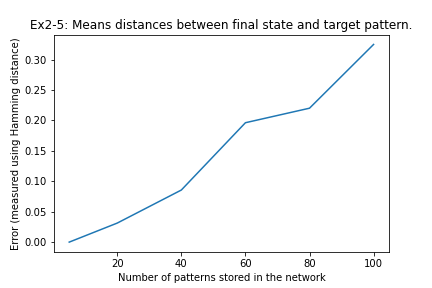
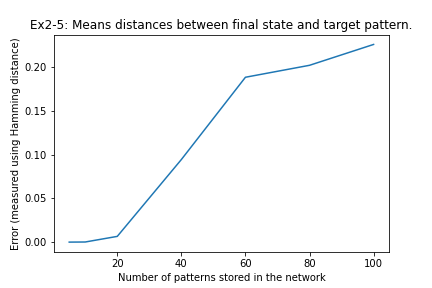
:))

diff --git a/Part2/Hop-Project-2.py b/Part2/Hop-Project-2.py
@@ -7,39 +7,16 @@ Created on Sat Apr 30 15:28:22 2022
 
 import matplotlib.pyplot as plt
 import numpy as np
-from neurodynex.hopfield_network import pattern_tools, plot_tools, network
-
-N = 300
-n_patterns = 5
-a = 0.5
-b = 0.5
-theta=0
+from neurodynex.hopfield_network import pattern_tools, network
 
 
-def generate_and_store_random_patterns(net, n_patterns):
-    """
-    Resets weights of the network passed and learn new weights for n_patterns random patterns.
-    :param net: hopfield network
-    :param n_patterns: number of patterns
-    :return: updated hopfield network, generated random patterns
-    """
-    random_patterns=random_pattern(N, a, n_patterns)
-    random_patterns=[(element + 1)/2 for element in random_patterns]
-    new_weights = weight_matrix(n_patterns, N, a, b, random_patterns)
-    net.weights=new_weights
-    return net, random_patterns
 
-def random_pattern(N, a,n_patterns):
-    """ generate random patterns """
+def random_pattern(N, a, n_patterns):
     pattern_generator = pattern_tools.PatternFactory(N, pattern_width=1)
-    return pattern_generator.create_random_pattern_list(n_patterns,a)
+    return pattern_generator.create_random_pattern_list(n_patterns, on_probability=a)
 
 
 def weight_matrix(n_patterns, N, a, b, patterns):
-    """
-    compute the weight matrix
-    w: weights
-    """
     w=np.zeros([N, N])
     cprime=1 / a / (1-a) / N
     for i in range(n_patterns):
@@ -48,122 +25,161 @@ def weight_matrix(n_patterns, N, a, b, patterns):
 
 
 def hamming_distance(x,y):
-    """
-    Hamming distance
-    """
-    return (sum(x)+sum(y)-2*np.dot(x, y)) / np.size(x)
+    return (sum(x)+sum(y)-2*np.dot(x, y)) / N
 
 
-def map_function(theta):
+def map_function(theta_0):
     def map_function_theta(sigma_t0, w):
-        """
-        changing the dynamic of the network
-        """
-        sigma_t1=np.zeros(np.size(sigma_t0))
-        for i in range(np.size(sigma_t0)):
-            sigma_t1[i]=0.5 * (1 + np.sign(np.dot(w[i], sigma_t0) - theta))      
+#        sigma_t1=np.zeros(N)
+#        for i in range(N):
+#            sigma_t1[i]=0.5 * (1 + np.sign(np.dot(w[i],sigma_t0) - np.sum(w[i])/2))
+        sigma_t1=[0.5 * (1 + np.sign(np.dot(wi,sigma_t0) - theta_0)) for wi in w]
         return sigma_t1
     return map_function_theta
 
 
-def hop_network(N,n_patterns,a,b,theta):
-    """
-    Execute exercise 1.
-    :return: hopfield network, generated random patterns
-    """
+def hop_network(N,n_patterns,a,b,theta_0):
     #Creating the random patterns of 1 & 0    
-    random_patterns=random_pattern(N, a, n_patterns)
-    random_patterns=[(element + 1)/2 for element in random_patterns]
-    
+    random_patterns = random_pattern(N, a, n_patterns)
+    random_patterns = [(element + 1)/2 for element in random_patterns]  
     #Creating the new weights from the random patterns
     new_weights = weight_matrix(n_patterns, N, a, b, random_patterns)
     net = network.HopfieldNetwork(N)
+    #Changing the weights of the network
     net.weights=new_weights
-    net.set_dynamics_to_user_function(map_function(theta))
+    net.set_dynamics_to_user_function(map_function(theta_0))
     return net, random_patterns
 
-net , random_patterns = hop_network(N,n_patterns,a,b,theta)
 
-
-def hop_run(net, stored_patterns, hamming_distance, selected_pattern_id=None):
-    """
-    Execute exercise 3.
-    :param net: Hopfield network
-    :param stored_patterns: Pattern that the network has stored in memory.
-    :param distance_function: Function used to compute the distance between two patterns.
-    :param selected_pattern_id: Pattern from which to create the initial state
-    :return: Distances between last state and all patterns, boolean flag indicating whether the pattern was correctly
-             retrieved, selected_pattern_id
-    """
-
-    # Create and set initial state
-    if selected_pattern_id is None:
-        selected_pattern_id = np.random.randint(0, len(stored_patterns))
-    else:
-        assert 0 <= selected_pattern_id < len(stored_patterns), "Selected pattern is not in the range of patterns list"
-    selected_pattern = stored_patterns[selected_pattern_id]
-    initial_state = selected_pattern  # Flip 15 randomly chosen neurons TODO\
-    initial_state = initial_state * 2 -1
-    net.set_state_from_pattern(initial_state)
-    # Run the network
-    n_steps = 6
-    net.run(nr_steps=n_steps)
-    final_state = net.state
-
-    # Calculate distance between the final state and all the patterns
-    distances = [hamming_distance(final_state, np.squeeze(pattern)) for pattern in stored_patterns]
-    correctly_retrieved = True if distances[selected_pattern_id] <= 0.05 else False
-
-    return distances, correctly_retrieved, selected_pattern_id
-
-
-net , random_patterns = hop_network(N,n_patterns,a,b,theta)
-
-def ex2_5(hamming_distance, m_vals, n_runs, N, a, b, theta):
-    """
-    Computes for each value of m the mean distance between the final state of the network and the target pattern, and
-    plot the results.
-
-    Algorithm:
-    - For 5 to 8 values M from 5 to 100:
-       - Generate list of size M with random patterns
-       - Reset weights of network
-       - Store patterns of the list
-       - For each pattern:
-           - Randomly flip 5% of that pattern, set this as initial state, run for 3 to 10 steps
-           - Compute distance between final state and target pattern, store that value
-       - Compute the mean distance between final state and target pattern, store it
-    - Plot the means
-    :param net: hopfield network
-    :param distance_function: distance function to use
-    :param m_vals: List of different values for m
-    :param n_runs: Number of runs to reach the state to compare with the target pattern
-    :return: mean distances
-    """
-    
-    def compute_mean_distance(n_patterns):
-        network, random_patterns = hop_network(N,n_patterns,a,b,theta)
-        distances = np.zeros(n_patterns)
-        n_flips = 15  # 5% of 300
-        for i, pattern in enumerate(random_patterns):
+def pattern_mean_error(hamming_distance, m_vals, n_runs, flip_rate, N, 
+                       a, b, opt_theta, theta_0 ):
+    n_flips = int(flip_rate*N)
+    no_patterns=len(m_vals)
+    means=np.zeros(no_patterns)
+    for i in range(no_patterns):
+        theta = m_vals[i]/(N*2)*opt_theta + (1-opt_theta)*theta_0
+        net, random_patterns = hop_network(N,m_vals[i],a,b,theta)
+        mean_error=0
+        for pattern in random_patterns:
             new_pattern=pattern*2-1
             initial_state = pattern_tools.flip_n(new_pattern, n_flips)
             initial_state=(initial_state + 1)/2
-            network.set_state_from_pattern(initial_state)
-            network.run(n_runs)
-            final_state = network.state
-            distances[i] = hamming_distance(final_state, np.squeeze(pattern))
-        return np.mean(distances)
+            net.set_state_from_pattern(initial_state)
+            net.run(n_runs)
+            mean_error+=(hamming_distance(net.state,pattern)/m_vals[i])
+        means[i]=mean_error
+    return means
 
-    means = np.array([compute_mean_distance(m) for m in m_vals])
-    plt.plot(m_vals, means)
+
+N = 300
+a = 0.5
+b = 0.5
+theta = 0
+n_runs = 6
+m_vals = (5, 10, 20, 40, 60, 80, 100)
+flip_rate = 0.05
+
+
+def ex2_5():
+    mean_error = 0
+    number_runs = 5
+    for i in range(number_runs):
+        mean_error+=pattern_mean_error(hamming_distance, m_vals=m_vals, n_runs=n_runs, N=N, flip_rate=flip_rate, 
+                                       a=a, b=b, opt_theta=1, theta_0=theta)/number_runs
+    print(mean_error)
+    plt.plot(m_vals, mean_error)
     plt.title("Ex2-5: Means distances between final state and target pattern.")
     plt.xlabel("Number of patterns stored in the network")
     plt.ylabel("Error (measured using Hamming distance)")
     plt.savefig("plots/ex2-5.png")
     plt.show()
+    print(np.interp(0.05, mean_error, m_vals))
 
-    return means
 
-means=ex2_5(hamming_distance, m_vals=(5, 20, 40, 60, 80, 100), n_runs=6, N=300, a=0.5, b=0.5, theta=0)
-print(means)
+def ex2_6():
+    theta_list=np.linspace(0.04, 0.08, num = 10)
+    capacity=np.zeros(len(theta_list))
+    
+    for i, theta in enumerate(theta_list):
+        mean_error=pattern_mean_error(hamming_distance, m_vals=m_vals, n_runs=n_runs, N=N, flip_rate=flip_rate, 
+                                      a=a, b=b, opt_theta=0, theta_0=theta)
+        capacity[i] = np.interp(0.05, mean_error, m_vals)
+        
+    plt.plot(theta_list, capacity)
+    plt.title("Ex2-6: Capacity of the netwrok for different values of theta.")
+    plt.xlabel("theta")
+    plt.ylabel("Maximum capacity")
+    plt.savefig("plots/ex2-6.png")
+    plt.show()
+
+
+def ex2_7():
+    a = 0.1
+    b = 0.1
+    theta_list=np.linspace(0.01, 0.5, num=20)
+    capacity=np.zeros(len(theta_list))
+    
+    for i, theta in enumerate(theta_list):
+        mean_error=pattern_mean_error(hamming_distance, m_vals=m_vals, n_runs=n_runs, N=N, flip_rate=flip_rate, 
+                                      a=a, b=b, opt_theta=0, theta_0=theta)
+        capacity[i] = np.interp(0.05, mean_error, m_vals)
+        
+    plt.plot(theta_list, capacity)
+    plt.title("Ex2-7: Capacity of the netwrok for different values of theta for a=b=0.1.")
+    plt.xlabel("theta")
+    plt.ylabel("Maximum capacity")
+    plt.savefig("plots/ex2-7.png")
+    plt.show()
+
+
+def ex2_7_2():
+    a = 0.2
+    b = 0.2
+    theta_list=np.linspace(0.01, 0.5, num=20)
+    capacity=np.zeros(len(theta_list))
+    
+    for i, theta in enumerate(theta_list):
+        mean_error=pattern_mean_error(hamming_distance, m_vals=m_vals, n_runs=n_runs, N=N, flip_rate=flip_rate, 
+                                      a=a, b=b, opt_theta=0, theta_0=theta)
+        capacity[i] = np.interp(0.05, mean_error, m_vals)
+    
+    plt.plot(theta_list, capacity)
+    plt.title("Ex2-7: Capacity of the netwrok for different values of theta for a=b=0.2.")
+    plt.xlabel("theta")
+    plt.ylabel("Maximum capacity")
+    plt.savefig("plots/ex2-7-2.png")
+    plt.show()
+
+
+def ex2_8():
+    a = 0.1
+    b_list = np.linspace(0.1, 0.9, num=5)
+    theta_list=np.linspace(0.04, 0.08, num=5)
+    capacity=np.zeros([len(theta_list),len(b_list)])
+    
+    for j, b in enumerate(b_list):
+        for i, theta in enumerate(theta_list):
+            mean_error=pattern_mean_error(hamming_distance, m_vals=m_vals, n_runs=n_runs, N=N, flip_rate=flip_rate, 
+                                          a=a, b=b, opt_theta=0, theta_0=theta)
+            capacity[j,i] = np.interp(0.05, mean_error, m_vals)
+    
+    plt.figure('Figure 2.8')
+    for j, b in enumerate(b_list):
+        plt.plot(theta_list, capacity[j])
+    lines=["b={}".format(b) for b in b_list]
+    plt.legend(lines)
+    plt.title("Ex2-8: Capacity of the netwrok for different values of theta and b for a=0.1.")
+    plt.xlabel("theta")
+    plt.ylabel("Maximum capacity")
+    plt.savefig("plots/ex2-8.png")
+    plt.show()
+
+
+
+ex2_5()
+ex2_6()
+ex2_7()
+ex2_7_2()
+ex2_8()
+
+
